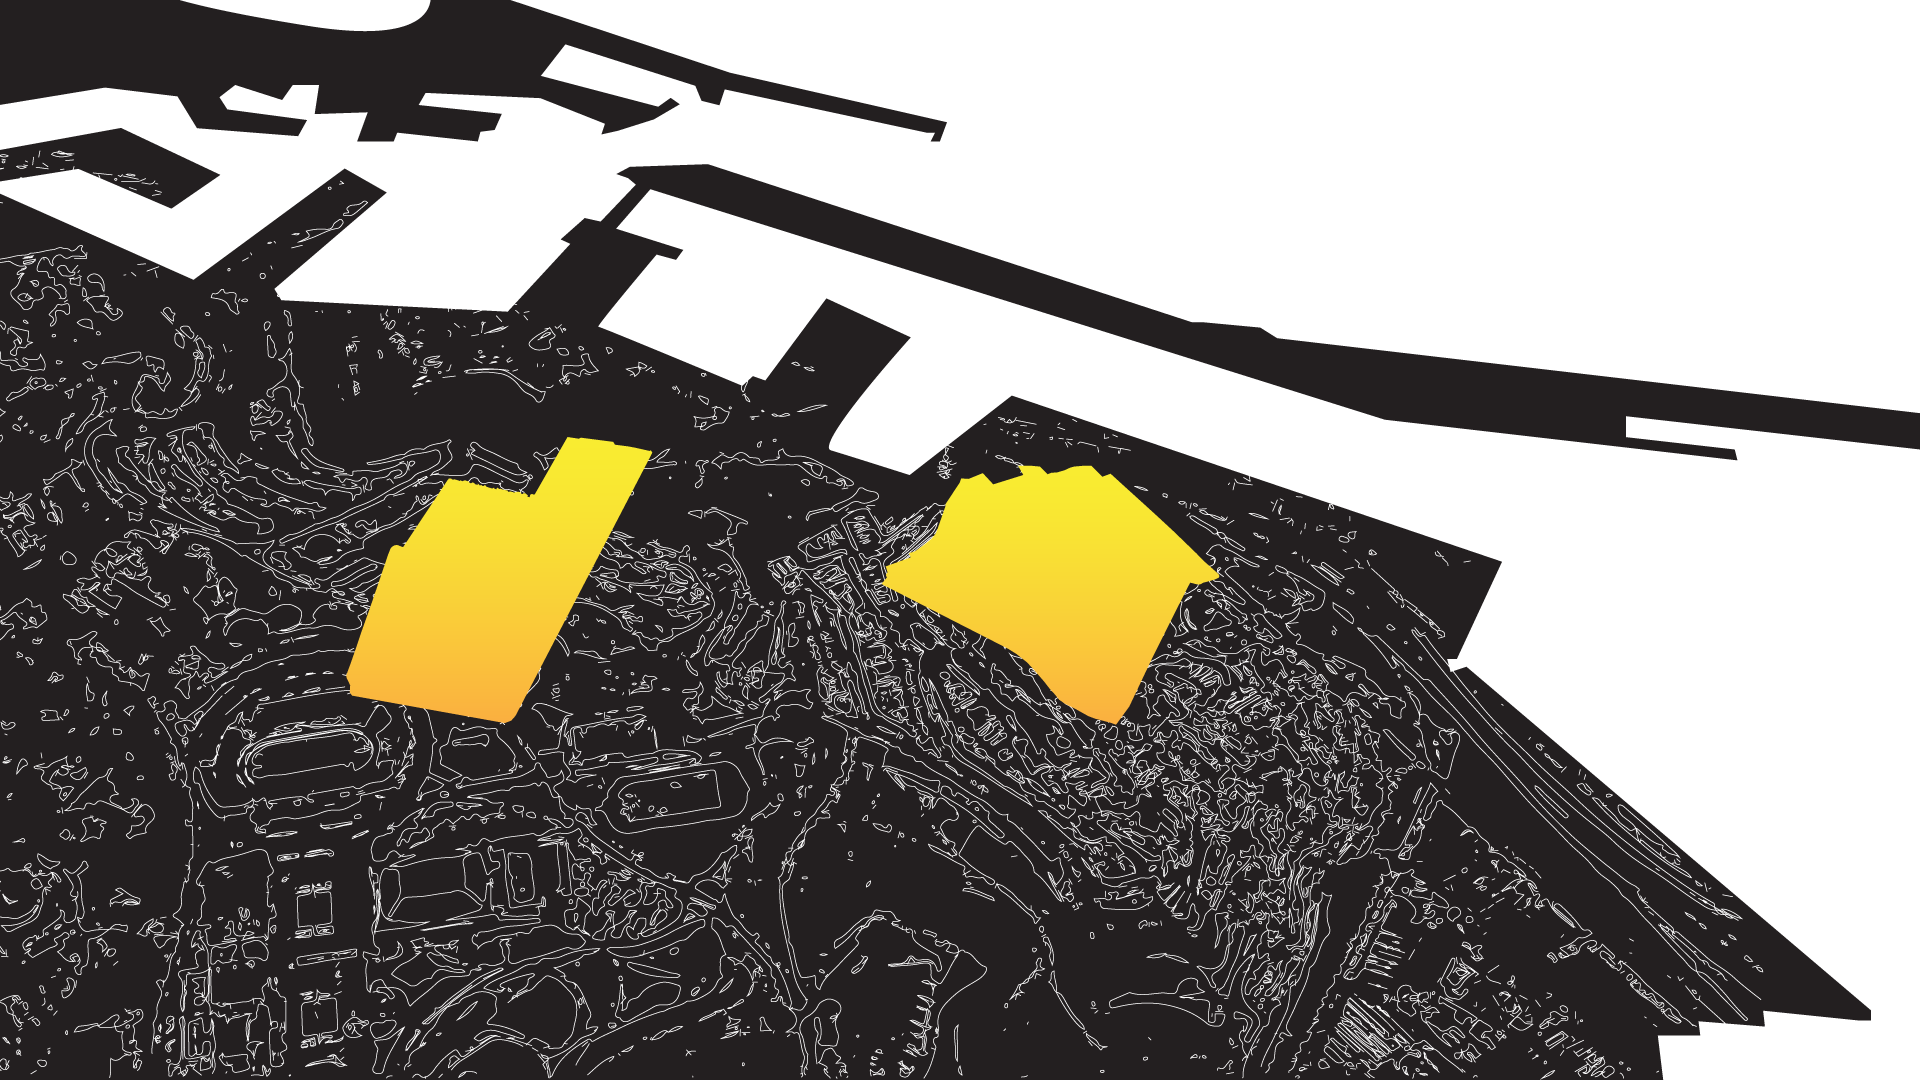
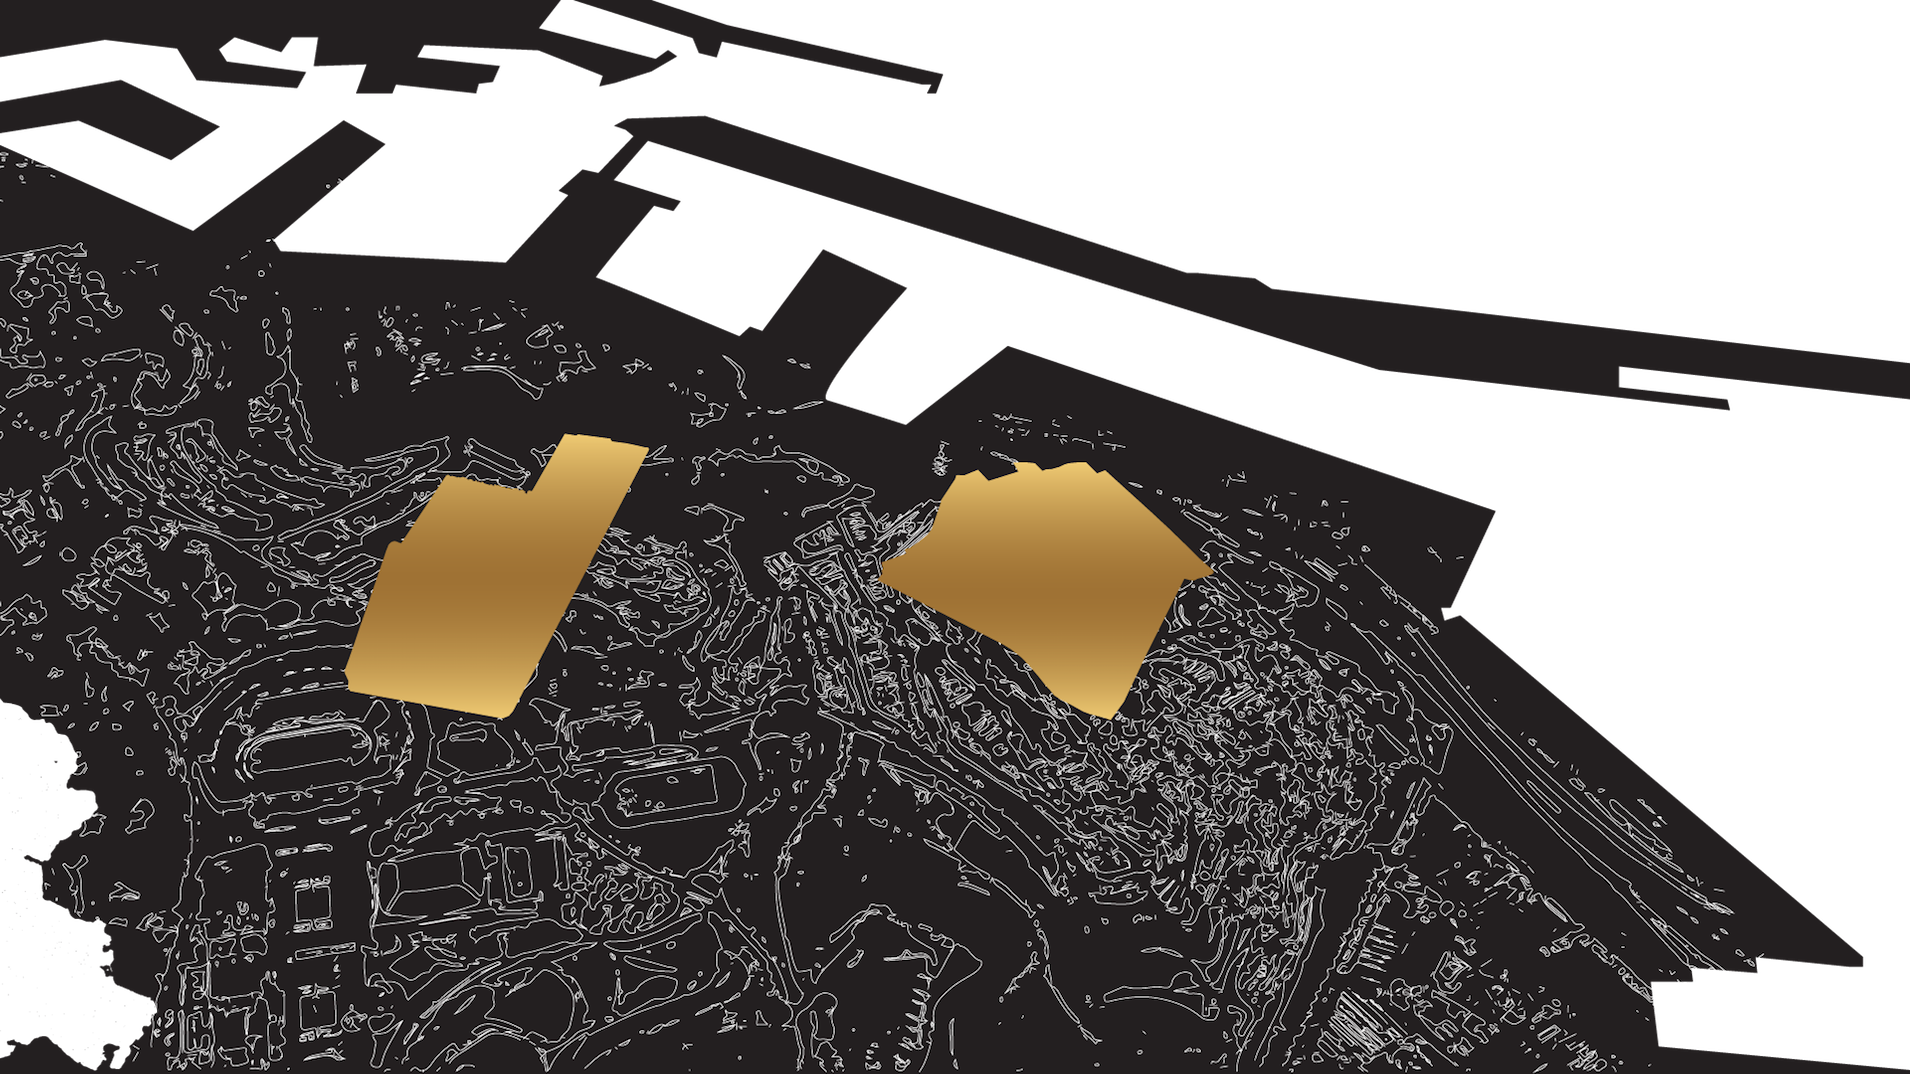
Updating background image, fixing some ocean peaking through

diff --git a/src/ofApp.cpp b/src/ofApp.cpp
@@ -242,16 +242,8 @@ void ofApp::drawBackground(){
 	// Draw the video
 	waterVideo.update();
 	waterVideo.draw(0, 0, fixedWidth, fixedHeight);
-	// Draw up and down lines
-	for (int i = 0; i < 2; i++) {
-		ofDrawRectangle(fixedWidth/3.0 * (i + 1) - 1, 0, 2, fixedHeight);
-		float divConst = 5.0;
-		if (i == 0) {
-			ofDrawRectangle(0, fixedHeight/divConst, fixedWidth, 2);
-		} else {
-			ofDrawRectangle(0, fixedHeight - fixedHeight/divConst, fixedWidth, 2);
-		}
-	}
+	ofSetColor(0);
+	ofDrawRectangle(0, fixedHeight - 400, 400, 400);
 	ofPopStyle();
 	background.draw(0, 0, fixedWidth, fixedHeight);
 }
